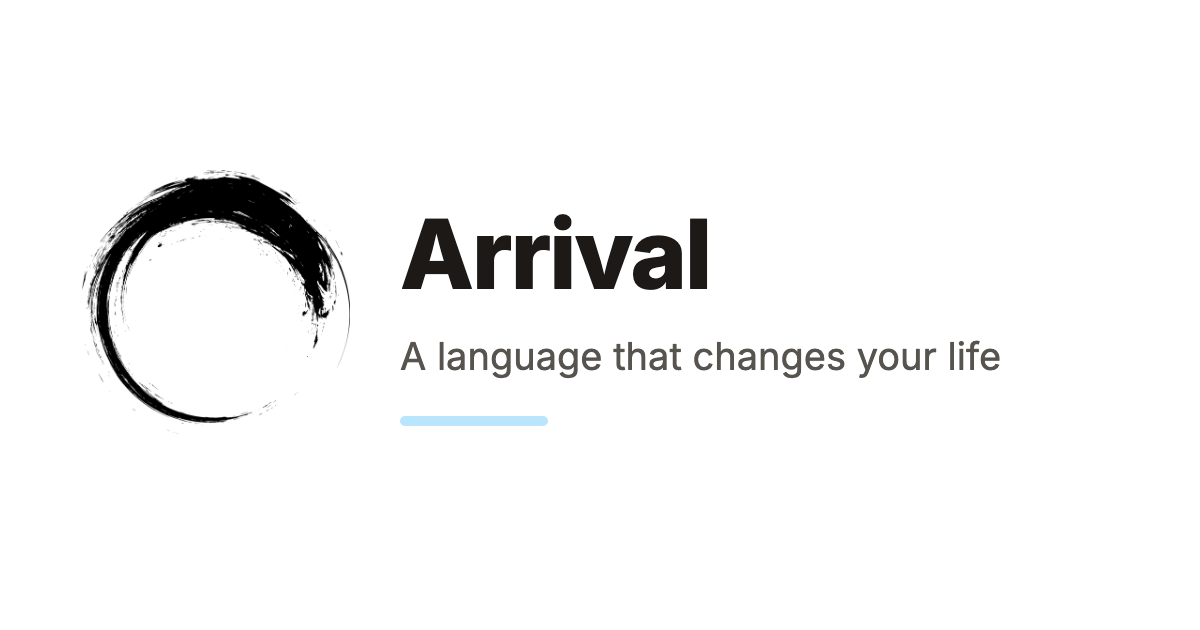
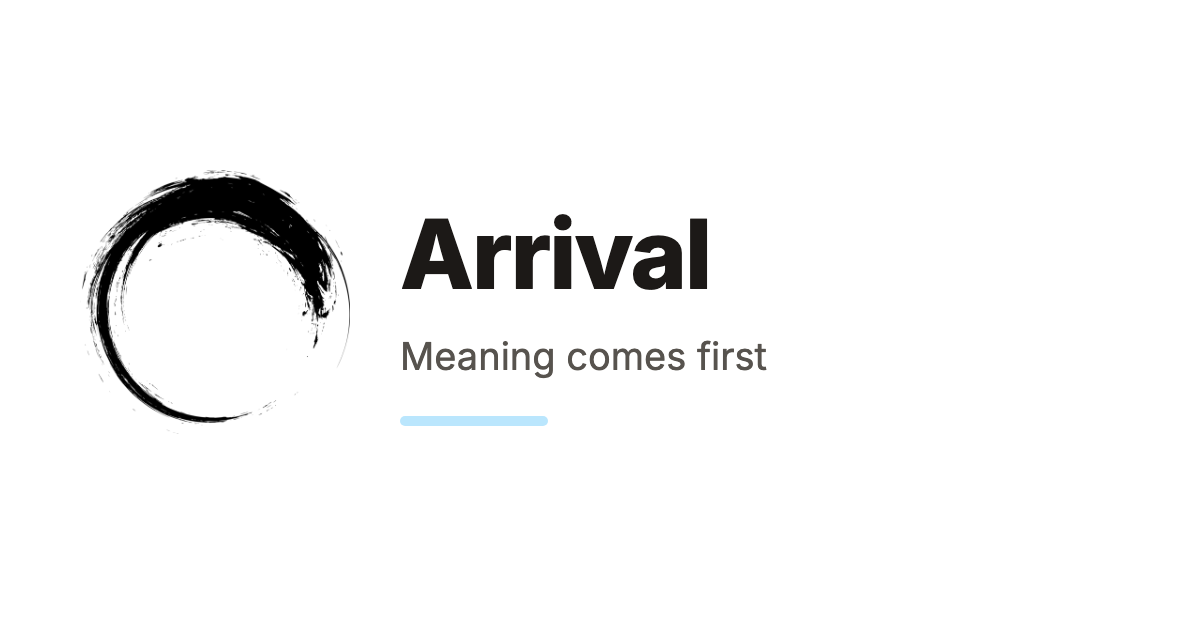
build

Changed region(s): [[0.3392, 0.5429, 0.8325, 0.6032]]

diff --git a/ru/arrival.html b/ru/arrival.html
@@ -18,8 +18,8 @@
 <title>Прибытие | tellothers.com</title>
 <meta property="og:title" content="Прибытие" />
 <meta property="og:locale" content="ru_RU" />
-<meta name="description" content="Язык, который меняет жизнь. То, что там показано про язык, который меняет жизнь, в каком-то смысле так и есть." />
-<meta property="og:description" content="Язык, который меняет жизнь. То, что там показано про язык, который меняет жизнь, в каком-то смысле так и есть." />
+<meta name="description" content="Сначала — смысл. Сначала было слово. Логос. Смысл. То, что там показано про язык, который меняет жизнь, в каком-то смысле так и есть." />
+<meta property="og:description" content="Сначала — смысл. Сначала было слово. Логос. Смысл. То, что там показано про язык, который меняет жизнь, в каком-то смысле так и есть." />
 <link rel="canonical" href="https://tellothers.com/ru/arrival" />
 <meta property="og:url" content="https://tellothers.com/ru/arrival" />
 <meta property="og:site_name" content="tellothers.com" />
@@ -103,12 +103,14 @@
     </h1>
 
       <p class="text-lg sm:text-xl text-stone-500 leading-snug">
-        Язык, который меняет жизнь
+        Сначала — смысл
       </p>
   </header>
 
   <div class="prose prose-stone max-w-none">
-    <p>То, что там показано про язык, который меняет жизнь, в каком-то смысле так и есть. После того как ты можешь описать, что с тобой происходит внутри, ты получаешь контроль над своей жизнью.</p>
+    <p>Сначала было слово. Логос. Смысл. Сначала — смысл.</p>
+
+<p>То, что там показано про язык, который меняет жизнь, в каком-то смысле так и есть. После того как ты можешь описать, что с тобой происходит внутри, ты получаешь контроль над своей жизнью.</p>
 
 <p>Любимая шутка: когда говоришь «я тебя люблю» на языке гептаподов, нельзя понять, кто кого любит. Они говорят и пишут в обе стороны.</p>
 
@@ -125,7 +127,7 @@
   "@type": "Article",
   "name": "Прибытие",
   "headline": "Прибытие",
-  "description": "Язык, который меняет жизнь",
+  "description": "Сначала — смысл",
   "url": "https://tellothers.com/ru/arrival",
   "mainEntityOfPage": "https://tellothers.com/ru/arrival",
   "image": "https://tellothers.com/images/og/arrival.ru.png",

diff --git a/arrival.html b/arrival.html
@@ -18,8 +18,8 @@
 <title>Arrival | tellothers.com</title>
 <meta property="og:title" content="Arrival" />
 <meta property="og:locale" content="en_US" />
-<meta name="description" content="A language that changes your life. What the film shows about a language that changes your life is, in a way, simply true." />
-<meta property="og:description" content="A language that changes your life. What the film shows about a language that changes your life is, in a way, simply true." />
+<meta name="description" content="Meaning comes first. In the beginning was the Word. Logos. Meaning. What the film shows about a language that changes your life is, in a way, simply true." />
+<meta property="og:description" content="Meaning comes first. In the beginning was the Word. Logos. Meaning. What the film shows about a language that changes your life is, in a way, simply true." />
 <link rel="canonical" href="https://tellothers.com/arrival" />
 <meta property="og:url" content="https://tellothers.com/arrival" />
 <meta property="og:site_name" content="tellothers.com" />
@@ -103,12 +103,14 @@
     </h1>
 
       <p class="text-lg sm:text-xl text-stone-500 leading-snug">
-        A language that changes your life
+        Meaning comes first
       </p>
   </header>
 
   <div class="prose prose-stone max-w-none">
-    <p>What the film shows about a language that changes your life is, in a way, simply true. Once you can describe what&#8217;s going on inside you, you take control of your life.</p>
+    <p>In the beginning was the Word. Logos. Meaning. Meaning comes first.</p>
+
+<p>What the film shows about a language that changes your life is, in a way, simply true. Once you can describe what&#8217;s going on inside you, you take control of your life.</p>
 
 <p>Favorite joke: say &#8220;I love you&#8221; in the heptapods&#8217; language and you can&#8217;t tell who loves whom. They speak and write in both directions.</p>
 
@@ -125,7 +127,7 @@
   "@type": "Article",
   "name": "Arrival",
   "headline": "Arrival",
-  "description": "A language that changes your life",
+  "description": "Meaning comes first",
   "url": "https://tellothers.com/arrival",
   "mainEntityOfPage": "https://tellothers.com/arrival",
   "image": "https://tellothers.com/images/og/arrival.en.png",

diff --git a/ru/dark-matter.html b/ru/dark-matter.html
@@ -108,7 +108,7 @@
   </header>
 
   <div class="prose prose-stone max-w-none">
-    <p>Сериал на Apple TV. Чел изобрёл способ переходить в параллельные вселенные. Я думал, это что-то про космос. Оказалось — про любовь и про то, какой могла бы быть жизнь.</p>
+    <p>Сериал на Apple TV. Чел изобрёл способ переходить в параллельные вселенные. Я думал, это что-то про космос. Оказалось — про любовь и про то, какой могла бы быть жизнь. В одном из миров у него нет семьи: решил, что космическая хрень важнее.</p>
 
 <p>Там всё говорят как есть.</p>
 
@@ -140,7 +140,7 @@
   "mainEntityOfPage": "https://tellothers.com/ru/dark-matter",
   "image": "https://tellothers.com/images/og/dark-matter.ru.png",
   "datePublished": "2026-10-08T14:02:15+07:00",
-  "dateModified": "2026-10-13T11:09:15+07:00",
+  "dateModified": "2026-10-19T18:37:48+07:00",
   "inLanguage": "ru",
   "isPartOf": {
     "@type": "WebSite",

diff --git a/ru/index.html b/ru/index.html
@@ -25,7 +25,7 @@
 <meta property="og:site_name" content="tellothers.com" />
 <meta property="og:image" content="https://tellothers.com/images/og-ru.png" />
 <meta property="og:type" content="article" />
-<meta property="article:published_time" content="2026-10-19T04:29:31-07:00" />
+<meta property="article:published_time" content="2026-10-19T05:22:14-07:00" />
 <meta name="twitter:card" content="summary_large_image" />
 <meta property="twitter:image" content="https://tellothers.com/images/og-ru.png" />
 <meta property="twitter:title" content="Сработало? Скажи другим." />
@@ -647,7 +647,7 @@
 
     <a href="/ru/arrival" class="group block no-underline rounded-lg hover:bg-white p-4 transition-all duration-700 ease-out hover:shadow-lg hover:shadow-stone-900/5">
   <div class="font-sans font-bold text-stone-800 group-hover:text-stone-950 transition duration-700">Прибытие</div>
-    <div class="mt-1 text-sm text-stone-600 leading-snug transition duration-700">Язык, который меняет жизнь</div>
+    <div class="mt-1 text-sm text-stone-600 leading-snug transition duration-700">Сначала — смысл</div>
 </a>
 
 

diff --git a/ru/watch.html b/ru/watch.html
@@ -124,7 +124,7 @@
   "mainEntityOfPage": "https://tellothers.com/ru/watch",
   "image": "https://tellothers.com/images/og/watch.ru.png",
   "datePublished": "2026-10-04T20:38:21+07:00",
-  "dateModified": "2026-10-05T15:49:32+07:00",
+  "dateModified": "2026-10-19T18:37:48+07:00",
   "inLanguage": "ru",
   "isPartOf": {
     "@type": "WebSite",
@@ -143,7 +143,7 @@
       <div class="grid sm:grid-cols-2 gap-3 -mx-4">
             <a href="/ru/arrival" class="group block no-underline rounded-lg hover:bg-white p-4 transition-all duration-700 ease-out hover:shadow-lg hover:shadow-stone-900/5">
   <div class="font-sans font-bold text-stone-800 group-hover:text-stone-950 transition duration-700">Прибытие</div>
-    <div class="mt-1 text-sm text-stone-600 leading-snug transition duration-700">Язык, который меняет жизнь</div>
+    <div class="mt-1 text-sm text-stone-600 leading-snug transition duration-700">Сначала — смысл</div>
 </a>
 
             <a href="/ru/click" class="group block no-underline rounded-lg hover:bg-white p-4 transition-all duration-700 ease-out hover:shadow-lg hover:shadow-stone-900/5">

diff --git a/index.html b/index.html
@@ -25,7 +25,7 @@
 <meta property="og:site_name" content="tellothers.com" />
 <meta property="og:image" content="https://tellothers.com/images/og-en.png" />
 <meta property="og:type" content="article" />
-<meta property="article:published_time" content="2026-10-19T04:29:31-07:00" />
+<meta property="article:published_time" content="2026-10-19T05:22:14-07:00" />
 <meta name="twitter:card" content="summary_large_image" />
 <meta property="twitter:image" content="https://tellothers.com/images/og-en.png" />
 <meta property="twitter:title" content="It worked? Tell others." />
@@ -647,7 +647,7 @@
 
     <a href="/arrival" class="group block no-underline rounded-lg hover:bg-white p-4 transition-all duration-700 ease-out hover:shadow-lg hover:shadow-stone-900/5">
   <div class="font-sans font-bold text-stone-800 group-hover:text-stone-950 transition duration-700">Arrival</div>
-    <div class="mt-1 text-sm text-stone-600 leading-snug transition duration-700">A language that changes your life</div>
+    <div class="mt-1 text-sm text-stone-600 leading-snug transition duration-700">Meaning comes first</div>
 </a>
 
 

diff --git a/watch.html b/watch.html
@@ -124,7 +124,7 @@
   "mainEntityOfPage": "https://tellothers.com/watch",
   "image": "https://tellothers.com/images/og/watch.en.png",
   "datePublished": "2026-10-04T20:38:21+07:00",
-  "dateModified": "2026-10-05T15:49:32+07:00",
+  "dateModified": "2026-10-19T18:37:48+07:00",
   "inLanguage": "en",
   "isPartOf": {
     "@type": "WebSite",
@@ -143,7 +143,7 @@
       <div class="grid sm:grid-cols-2 gap-3 -mx-4">
             <a href="/arrival" class="group block no-underline rounded-lg hover:bg-white p-4 transition-all duration-700 ease-out hover:shadow-lg hover:shadow-stone-900/5">
   <div class="font-sans font-bold text-stone-800 group-hover:text-stone-950 transition duration-700">Arrival</div>
-    <div class="mt-1 text-sm text-stone-600 leading-snug transition duration-700">A language that changes your life</div>
+    <div class="mt-1 text-sm text-stone-600 leading-snug transition duration-700">Meaning comes first</div>
 </a>
 
             <a href="/click" class="group block no-underline rounded-lg hover:bg-white p-4 transition-all duration-700 ease-out hover:shadow-lg hover:shadow-stone-900/5">

diff --git a/ru/soul.html b/ru/soul.html
@@ -114,7 +114,7 @@
 
 <p>Тут вспоминается английское true colors — истинные цвета. То, чем ты раскрашен внутри.</p>
 
-<p>Ещё больше мне нравится сравнивать душу с музыкой. Какая музыка играет у тебя внутри? Какие ноты в ней звучат — злость, страх, ревность? Или радость, любовь, добро?</p>
+<p>Ещё больше мне нравится сравнивать душу с музыкой. Если бы Бог был, он был бы чем-то вроде музыки: дети слышат её и начинают танцевать, никому не надо объяснять. Какая музыка играет у тебя внутри? Какие ноты в ней звучат — злость, страх, ревность? Или радость, любовь, добро?</p>
 
 <p><a href="/ru/mine-joy">Радость — это выбор.</a></p>
 

diff --git a/ru/sliding-doors.html b/ru/sliding-doors.html
@@ -25,7 +25,7 @@
 <meta property="og:site_name" content="tellothers.com" />
 <meta property="og:image" content="https://tellothers.com/images/og/sliding-doors.ru.png" />
 <meta property="og:type" content="article" />
-<meta property="article:published_time" content="2026-10-19T04:29:31-07:00" />
+<meta property="article:published_time" content="2026-10-19T04:37:48-07:00" />
 <meta name="twitter:card" content="summary_large_image" />
 <meta property="twitter:image" content="https://tellothers.com/images/og/sliding-doors.ru.png" />
 <meta property="twitter:title" content="Осторожно, двери закрываются" />
@@ -127,6 +127,8 @@
   "url": "https://tellothers.com/ru/sliding-doors",
   "mainEntityOfPage": "https://tellothers.com/ru/sliding-doors",
   "image": "https://tellothers.com/images/og/sliding-doors.ru.png",
+  "datePublished": "2026-10-19T18:37:48+07:00",
+  "dateModified": "2026-10-19T18:37:48+07:00",
   "inLanguage": "ru",
   "isPartOf": {
     "@type": "WebSite",

diff --git a/sliding-doors.html b/sliding-doors.html
@@ -25,7 +25,7 @@
 <meta property="og:site_name" content="tellothers.com" />
 <meta property="og:image" content="https://tellothers.com/images/og/sliding-doors.en.png" />
 <meta property="og:type" content="article" />
-<meta property="article:published_time" content="2026-10-19T04:29:31-07:00" />
+<meta property="article:published_time" content="2026-10-19T04:37:48-07:00" />
 <meta name="twitter:card" content="summary_large_image" />
 <meta property="twitter:image" content="https://tellothers.com/images/og/sliding-doors.en.png" />
 <meta property="twitter:title" content="Sliding Doors" />
@@ -127,6 +127,8 @@
   "url": "https://tellothers.com/sliding-doors",
   "mainEntityOfPage": "https://tellothers.com/sliding-doors",
   "image": "https://tellothers.com/images/og/sliding-doors.en.png",
+  "datePublished": "2026-10-19T18:37:48+07:00",
+  "dateModified": "2026-10-19T18:37:48+07:00",
   "inLanguage": "en",
   "isPartOf": {
     "@type": "WebSite",

diff --git a/dark-matter.html b/dark-matter.html
@@ -108,7 +108,7 @@
   </header>
 
   <div class="prose prose-stone max-w-none">
-    <p>An Apple TV series. A guy invents a way to cross into parallel universes. I thought it was something about space. It turned out to be about love and the life you could have had.</p>
+    <p>An Apple TV series. A guy invents a way to cross into parallel universes. I thought it was something about space. It turned out to be about love and the life you could have had. In one of the worlds he has no family: he decided the cosmic stuff mattered more.</p>
 
 <p>They say it like it is.</p>
 
@@ -140,7 +140,7 @@
   "mainEntityOfPage": "https://tellothers.com/dark-matter",
   "image": "https://tellothers.com/images/og/dark-matter.en.png",
   "datePublished": "2026-10-08T14:02:15+07:00",
-  "dateModified": "2026-10-13T11:09:15+07:00",
+  "dateModified": "2026-10-19T18:37:48+07:00",
   "inLanguage": "en",
   "isPartOf": {
     "@type": "WebSite",

diff --git a/ru/talk-yourself-out.html b/ru/talk-yourself-out.html
@@ -187,7 +187,7 @@
 
             <a href="/ru/arrival" class="group block no-underline rounded-lg hover:bg-white p-4 transition-all duration-700 ease-out hover:shadow-lg hover:shadow-stone-900/5">
   <div class="font-sans font-bold text-stone-800 group-hover:text-stone-950 transition duration-700">Прибытие</div>
-    <div class="mt-1 text-sm text-stone-600 leading-snug transition duration-700">Язык, который меняет жизнь</div>
+    <div class="mt-1 text-sm text-stone-600 leading-snug transition duration-700">Сначала — смысл</div>
 </a>
 
             <a href="/ru/what-it-is" class="group block no-underline rounded-lg hover:bg-white p-4 transition-all duration-700 ease-out hover:shadow-lg hover:shadow-stone-900/5">
